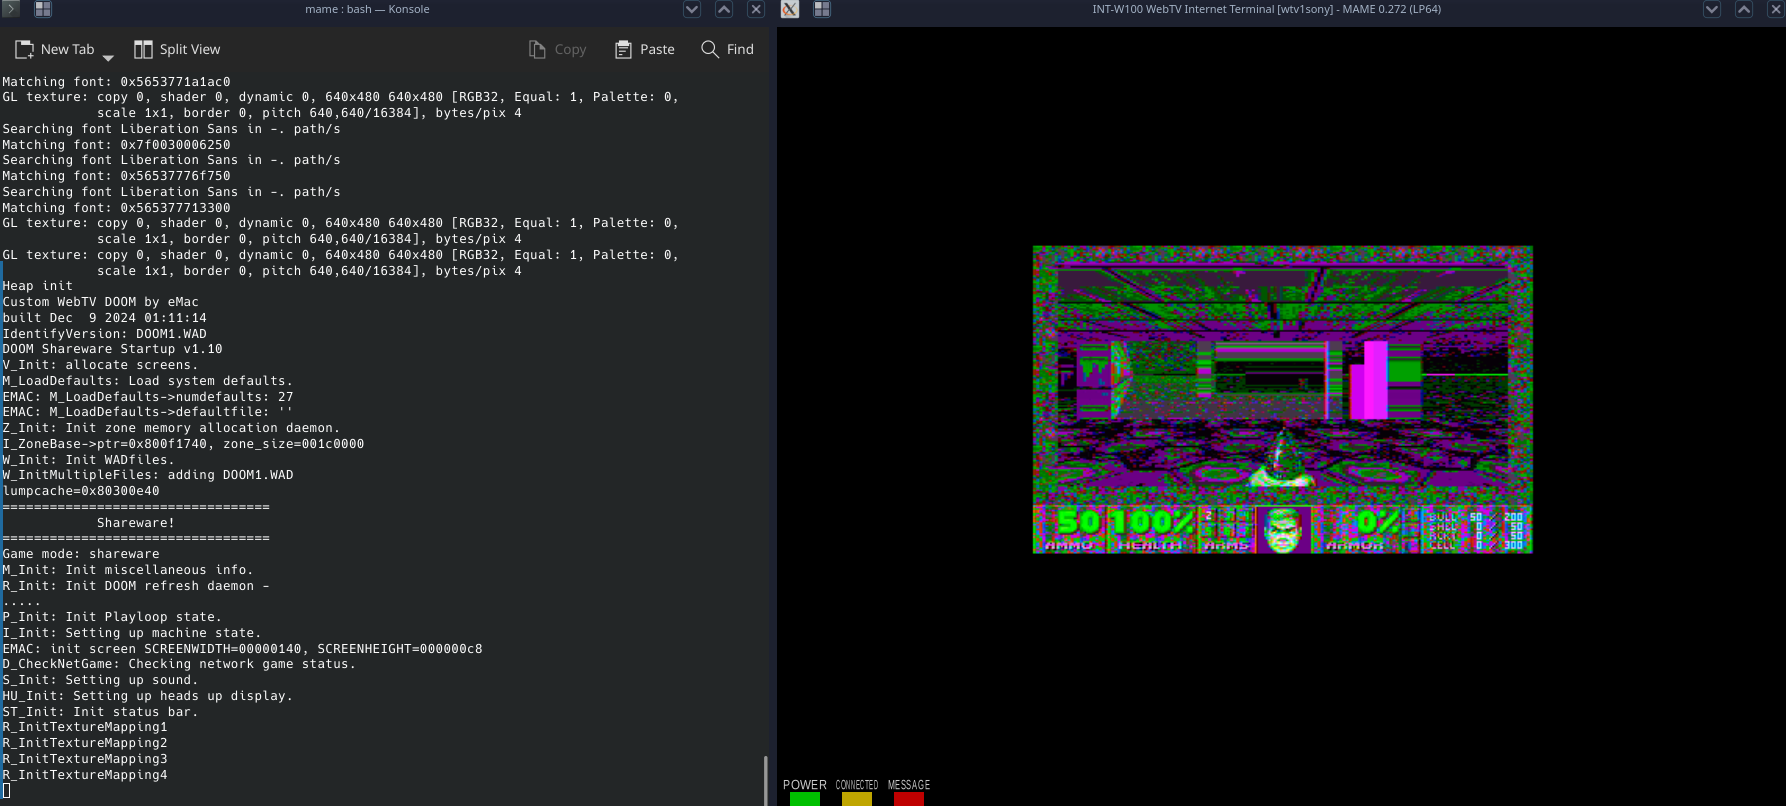
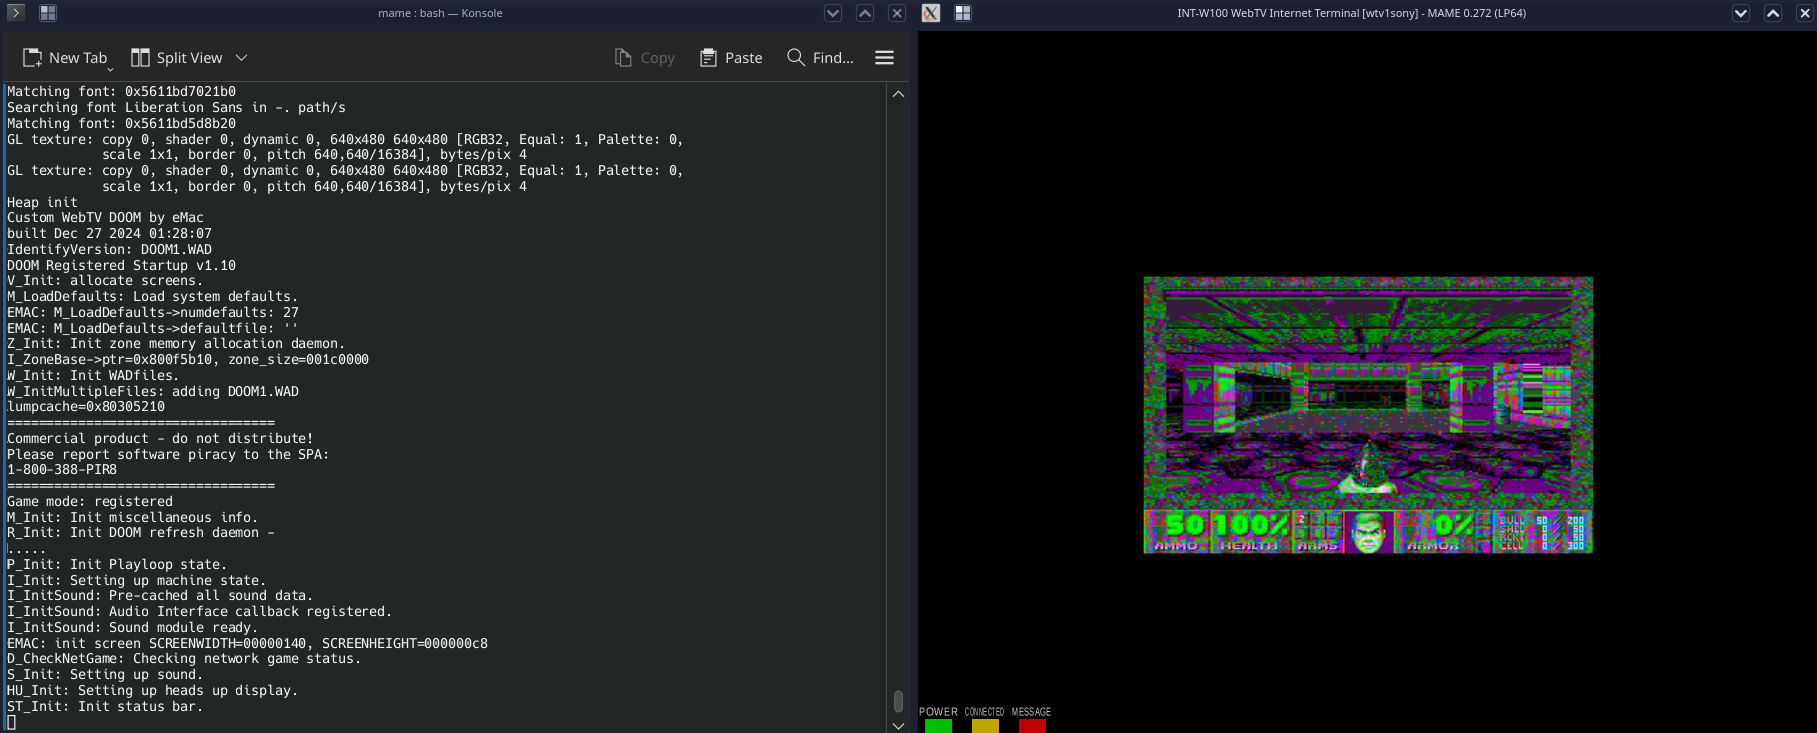
README update

diff --git a/README.md b/README.md
@@ -34,11 +34,19 @@ The examples directory shows a few approms I've been experimenting with.
 
 ![Doom running on MAME](example1.png)
 
-This is a port of [64doom](https://github.com/jnmartin84/64doom) to the MAME bf0 version of WebTV. Doom runs at a smaller resolution than the WebTV screen and uses a different color space. The screen size will likely remain a defect on bf0 boxes but I plan to fix the colors in software. WNI's Doom on the WebTV Plus and Echostar boxes used the Solo's gfxUnit to create a RGB color table, draw the screen to a rectangle and enlarge it to fit the screen.
+This is a port of [64doom](https://github.com/jnmartin84/64doom) to the WebTV classic (INT-W100) running in emulation. Doom runs at a smaller resolution and colors don't map correctly because the WebTV uses a different color space. The screen size will likely remain a defect for Doom on bf0 boxes but I plan to convert the RGB to YCbYCr in software.
 
-https://github.com/user-attachments/assets/f3c6a3d7-4e06-4d4f-9086-40b50b677427
+WNI's Doom on the WebTV Plus and Echostar boxes used the Solo's gfxUnit to create a RGB lookup table, draw the screen to a rectangle and enlarge it to fit the screen. I will be doing something similar after I finish up other parts of libwtv and get to the gfxUnit code.
 
-The game is a bit faster than normal due to the timer interval being setup for the N64 CPU. Easy fix that will be applied soon.
+Controls should work now as well. There needs to be some debouncing work done if you use IR but keys should register.
+
+https://github.com/user-attachments/assets/58c67883-68ba-4e36-b725-92341bff1d47
+
+An example of the Doom demo.
+
+https://github.com/user-attachments/assets/e5e135fa-1d4d-4310-9fbc-e89fea40a1c4
+
+This is an example of loading up the LC2 patchbank and playing WNI's chill jingle MIDI file. A fart WAV is played at a lower volume when keys are pressed. Make sure the video's sound is unmuted!
 
 ![Example approm on the WebTV Plus](example2.png)
 
